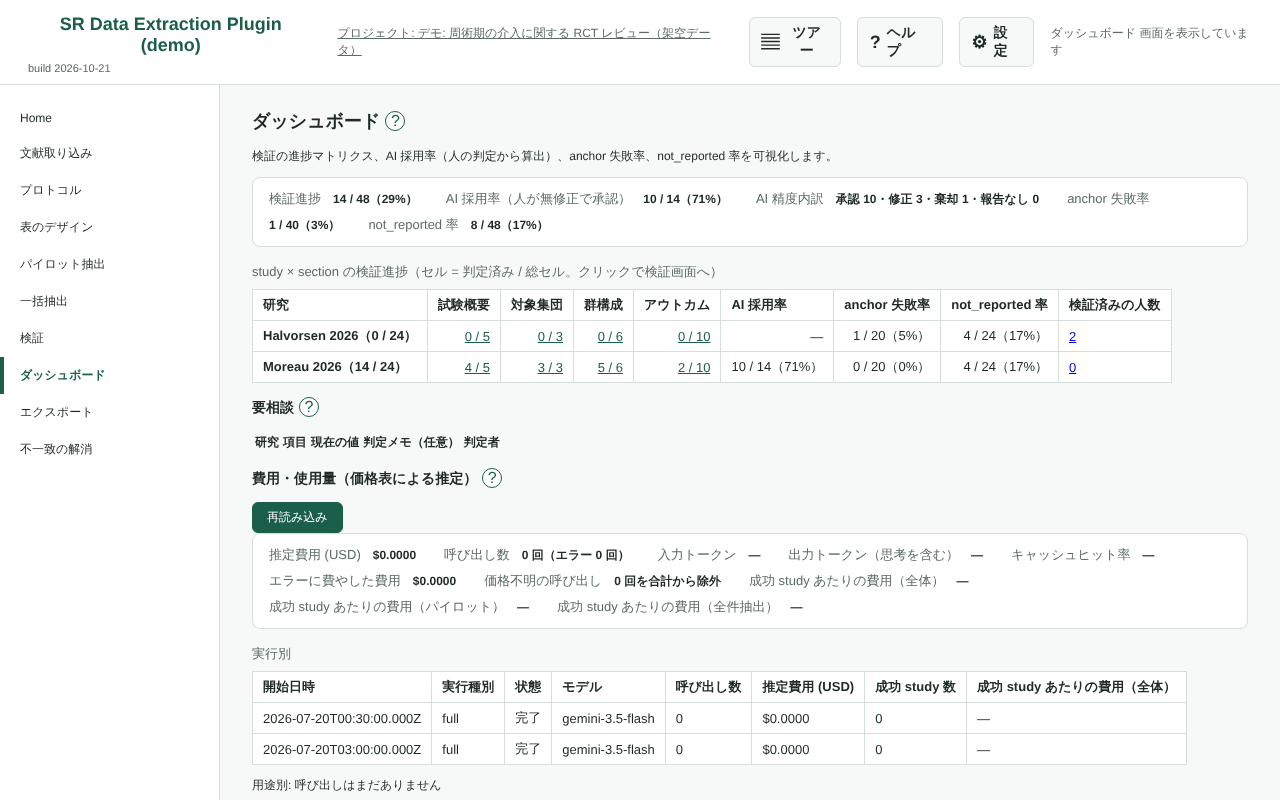
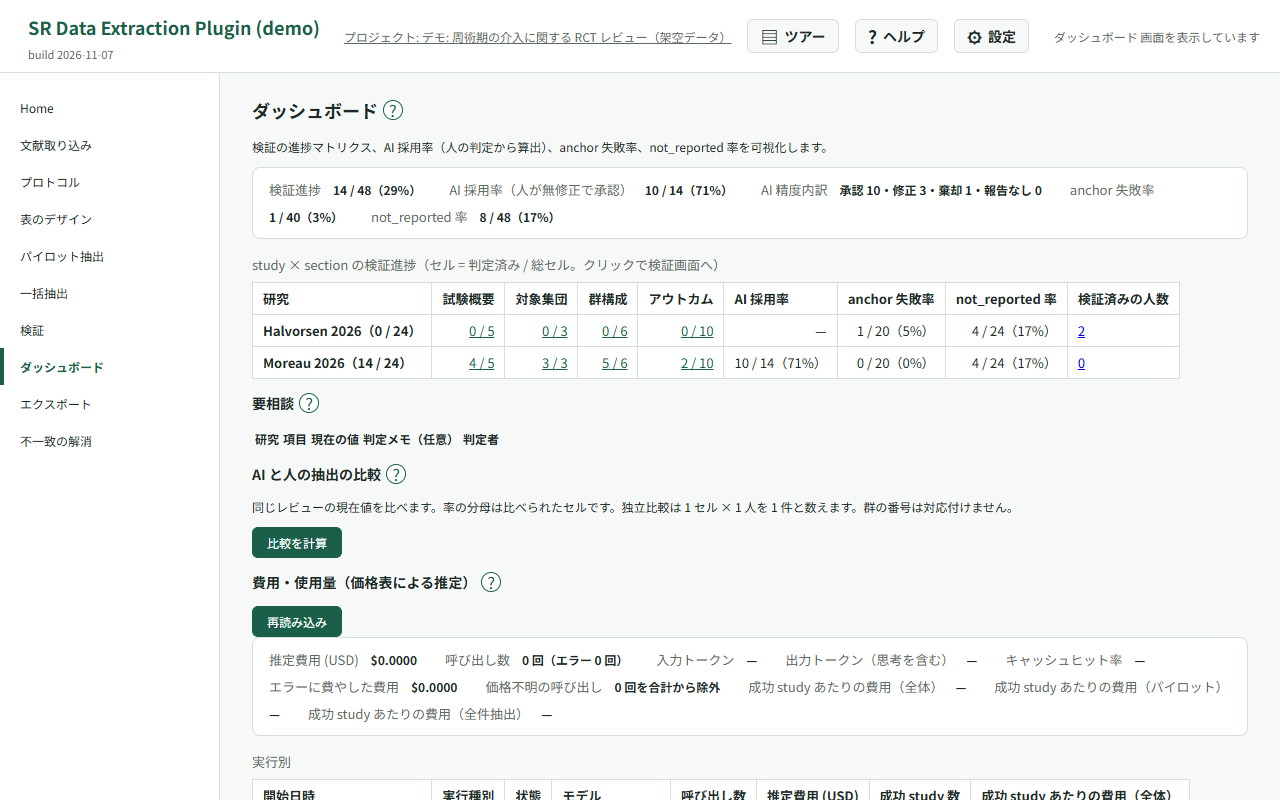
公開ページを再デプロイ（2026-11-08・master 3aac386）

diff --git a/help.html b/help.html
@@ -3,7 +3,7 @@
      正典はこのファイル（master の hosted/）。デプロイ手順は hosted/README.md を参照。
      内容はワークフローレベルに留める（画面細部はアプリ内のリード文が担う。issue #214 §3）。
      文言は ja / en を両方持ち、表示は lang.js + CSS が片方だけに絞る（併記しない）。
-     version: 2026-11-07 -->
+     version: 2026-11-08 -->
 <html lang="ja">
   <head>
     <meta charset="utf-8" />
@@ -53,8 +53,8 @@
           <span class="en" lang="en">User guide</span>
         </h1>
         <p class="last-updated">
-          <span class="ja" lang="ja">最終更新: 2026-11-07 / 対象バージョン: v0.27.0</span>
-          <span class="en" lang="en">Last updated: 2026-11-07 / Covers v0.27.0</span>
+          <span class="ja" lang="ja">最終更新: 2026-11-08 / 対象バージョン: v0.27.0</span>
+          <span class="en" lang="en">Last updated: 2026-11-08 / Covers v0.27.0</span>
         </p>
 
         <nav class="toc" aria-label="目次" data-en-aria-label="Table of contents">
@@ -596,12 +596,12 @@
           </div>
           <p>
             <span class="ja" lang="ja"
-              >最初に AI の機能（スキーマの AI ドラフト、パイロット抽出、一括抽出、引用の AI 再特定、論文への質問、ヘルプへの相談）を使うとき、何をどこへ送るかを示す確認が 1 回だけ出ます。送るのは論文の本文（文字を読み取れない PDF はページの画像）、研究プロトコルの本文、抽出項目の定義、質問の文です。ヘルプへの相談では、質問と選ばれた公開ヘルプの本文だけを送り、相談の内容は保存しません。AI の処理のために送る先は、設定した LLM API だけです。送ったプロンプトと応答は、監査の記録として利用者自身の Google Drive（プロジェクトの logs/llm）にも保存されます（画像データは除きます）。論文への質問は本文・質問・回答を保存せず、利用量などのメタデータだけを記録します。開発者のサーバーには何も送りません。Gemini API の無料枠では、送った内容と応答が、Google の製品・サービスと機械学習技術の提供・改善・開発に使われ、人が読むことがあります。未公開のデータや機密の資料は有料枠で使ってください。「同意して続行」で実行し、「キャンセル」では何も送りません。確認を開いている間に同じ操作を繰り返しても、処理は増えません。「キャンセル」または Esc で閉じると、開く前の操作部へフォーカスが戻ります。同意の内容を変えたときは、もう一度表示します。同意はこのブラウザのプロファイルに記録され、設定画面の「AI へ送る内容」から見直し・取り消しができます。</span
+              >最初に AI の機能（スキーマの AI ドラフト、パイロット抽出、一括抽出、引用の AI 再特定、論文への質問、ヘルプへの相談）を使うとき、何をどこへ送るかを示す確認が 1 回だけ出ます。送るのは論文の本文（文字を読み取れない PDF はページの画像）、研究プロトコルの本文、抽出項目の定義、選択肢の提案に使う項目のパイロットの抽出値（最大 30 件）、質問の文です。ヘルプへの相談では、質問と選ばれた公開ヘルプの本文だけを送り、相談の内容は保存しません。AI の処理のために送る先は、設定した LLM API だけです。送ったプロンプトと応答は、監査の記録として利用者自身の Google Drive（プロジェクトの logs/llm）にも保存されます（画像データは除きます）。論文への質問は本文・質問・回答を保存せず、利用量などのメタデータだけを記録します。開発者のサーバーには何も送りません。Gemini API の無料枠では、送った内容と応答が、Google の製品・サービスと機械学習技術の提供・改善・開発に使われ、人が読むことがあります。未公開のデータや機密の資料は有料枠で使ってください。「同意して続行」で実行し、「キャンセル」では何も送りません。確認を開いている間に同じ操作を繰り返しても、処理は増えません。「キャンセル」または Esc で閉じると、開く前の操作部へフォーカスが戻ります。同意の内容を変えたときは、もう一度表示します。同意はこのブラウザのプロファイルに記録され、設定画面の「AI へ送る内容」から見直し・取り消しができます。</span
             >
             <span class="en" lang="en"
               >The first time you use an AI feature (AI schema draft, pilot extraction, batch extraction, AI quote
               relocation, asking a paper or help consultation), a notice shows once what is sent where. The extension sends the text of
-              your papers (page images for PDFs without a text layer), your protocol text, your field definitions and
+              your papers (page images for PDFs without a text layer), your protocol text, your field definitions, pilot extraction values for the field when suggesting choices (up to 30), and
               your questions. Help consultation sends only your question and selected public help text, and does not save consultation content. For AI processing, content is sent only to the LLM API you configured. The prompts sent and the responses are also saved as audit records in your own Google Drive (the project’s logs/llm folder), excluding image data. For paper questions, the paper text, questions and answers are not saved; only metadata such as usage is recorded. Nothing is sent to the developer’s servers. On the Gemini API free tier, what you send and the responses are used to provide, improve, and develop Google products, services, and machine learning technologies, and may be read by people, so use a paid tier for unpublished data or
               confidential material. If the notice changes, it is shown again. “Agree and continue” runs the feature; “Cancel” sends nothing. Your consent is
               recorded in this browser profile, and you can review or withdraw it under “What is sent to the AI” in
@@ -1106,6 +1106,10 @@
               <span class="en" lang="en"
                 >Risk-of-bias templates (RoB 2, ROBINS-I, QUADAS-3, QUIPS) can be pre-loaded into the schema.</span
               >
+              <p>
+                <span class="ja" lang="ja">RoB の判定の提案が、まだ確かめていない AI の回答から計算されているときは、提案の下にその旨を表示し、回答を確かめると変わることがあると案内します。</span>
+                <span class="en" lang="en">When a RoB judgement suggestion is computed from AI answers you have not verified yet, a note below the suggestion explains this and that it may change once you verify the answers.</span>
+              </p>
             </li>
             <li>
               <span class="ja" lang="ja"
@@ -1291,6 +1295,39 @@
             </figcaption>
           </figure>
 
+          <h3 id="pilot-criteria">
+            <span class="ja" lang="ja">合格基準</span><span class="en" lang="en">Acceptance criteria</span>
+          </h3>
+          <div class="help-when">
+            <p class="help-when-label"><span class="ja" lang="ja">こんなとき</span><span class="en" lang="en">When to read this</span></p>
+            <ul><li><span class="ja" lang="ja">AI 抽出の合格基準を前もって決め、結果を報告したい</span>
+              <span class="en" lang="en">Set acceptance criteria in advance and report the results</span></li>
+              <li><span class="ja" lang="ja">パイロットの結果が基準を満たすか確かめたい</span>
+                <span class="en" lang="en">Check whether the pilot meets the criteria</span></li></ul>
+          </div>
+          <p><span class="ja" lang="ja">パイロットの前に owner が合格基準を決め、「確定する」から確認して保存します。
+            正確度の下限、作り話・欠け・誤った値の率の上限（0〜100%、4 つのうち 1 つ以上）、任意の最小セル数、
+            比べる相手（独立の人、裁定後の値、独立抽出者の最終値、AI を見ながら判定した人）、対象レベルを指定します。
+            初期値は空欄です。CESAR の感度 92%、重大な誤り 3% は参考で、自動入力されません。
+            AI を見ながら判定した人との比較は独立比較ではありません。
+            実行中・中断・失敗を含め、一度でもパイロットを始めた後の確定は、開始後に確定した版として記録します。</span>
+            <span class="en" lang="en">Before the pilot, the owner sets and confirms acceptance criteria: minimum accuracy,
+            maximum fabrication, omission and wrong-value rates (0–100%; at least one rate), optional minimum compared cells,
+            comparator (independent reviewers, consensus, independent final values, or AI-assisted final values), and entity levels.
+            Inputs start blank. CESAR sensitivity 92% and major errors 3% are references and are not filled in automatically.
+            AI-assisted review is not an independent comparison.
+            Confirmation after any pilot has started, including running, interrupted or failed runs, is recorded as occurring after the pilot began.</span></p>
+          <p><span class="ja" lang="ja">「結果を計算」で完了済みパイロットの研究を比較します。基準をすべて満たせば「満たす」、
+            いずれかに届かなければ「満たさない」、パイロットなし・比較セル 0・最小数未満なら理由付きで「判定できない」と表示します。
+            表には基準、設定値、パイロットの値、判定が並びます。設定なしの率と計算前の値・判定は「—」で表示します。
+            比べられたセル数の行では、最小数があればその判定も示します。
+            版は追記保存され、過去版は消えません。現行の基準と結果は Methods 文案に、各版は R セットの acceptance_criteria.csv に出ます。</span>
+            <span class="en" lang="en">Use “Calculate results” to compare completed pilot studies. Results are “Met” if all criteria
+            are satisfied, “Not met” if any criterion fails, or “Not evaluable” with a reason if there is no pilot, no compared cells,
+            or too few cells. The table shows each criterion, setting, pilot value and judgment.
+            Unset rates and values and judgments before calculation show “—”. The compared-cell row also evaluates the minimum if set.
+            Versions are appended and preserved. The current criteria and result appear in the Methods text;
+            every version appears in acceptance_criteria.csv in the R set.</span></p>
           <h3 id="pilot-notes">
             <span class="ja" lang="ja">判定メモと再パイロット</span>
             <span class="en" lang="en">Judgment notes and repeat pilots</span>
@@ -1893,6 +1930,34 @@
             </figcaption>
           </figure>
 
+          <h3 id="dashboard-ai-compare">
+            <span class="ja" lang="ja">AI と人の抽出の比較</span>
+            <span class="en" lang="en">Compare AI and human extraction</span>
+          </h3>
+          <div class="help-when">
+            <p class="help-when-label">
+              <span class="ja" lang="ja">こんなとき</span>
+              <span class="en" lang="en">When to read this</span>
+            </p>
+            <ul>
+              <li>
+                <span class="ja" lang="ja">AI の作り話・誤った値・欠けの割合を確かめたい</span>
+                <span class="en" lang="en">I want to measure AI fabrications, wrong values and omissions</span>
+              </li>
+              <li>
+                <span class="ja" lang="ja">独立の人や最終値との比較を CSV で保存したい</span>
+                <span class="en" lang="en">I want to save comparisons with independent reviewers or final values as CSV</span>
+              </li>
+            </ul>
+          </div>
+          <p>
+            <span class="ja" lang="ja">オーナーと裁定者は「比較を計算」で、AI と人の現在値を比べられます。「一致」は同じ値（複数選択は並びをそろえて比較）、「欠け」は人が値を出したのに AI が報告なし・値なし、「作り話」は人が報告なしとした値を AI が出した場合、または異なる値で全引用が本文で見つからない場合、「誤った値」はそれ以外の異なる値です。値が一致すれば、引用の失敗は別の件数にだけ数えます。</span>
+            <span class="en" lang="en">Owners and adjudicators can calculate a comparison of current AI and human values. A match means equal values (with multiple selections put in canonical order). An omission means the human has a value but AI reports none or has no value. A fabrication means AI supplies a value where the human reports none, or supplies a different value with all quotes failing to match the text. Other differing values are wrong values. Equal values remain matches even if their quotes fail; quote failures are also counted separately.</span>
+          </p>
+          <p>
+            <span class="ja" lang="ja">人が未判定、またはその項目が AI の抽出対象外なら「比べられない」として率の分母から外します。両方空も一致にしません。完了した AI 抽出のない研究は別計上します。A は独立の人ごとに比較、B は最終値を裁定値・独立の人・AI を見た人に分けて表示します。AI を見ながら判定した人との比較は独立の比較ではありません。群番号の対応付けは行いません。集計とセル一覧を CSV で保存できます。</span>
+            <span class="en" lang="en">Unjudged human cells and fields outside completed AI extraction runs are incomparable and excluded from rates. Two empty values are not a match. Studies without completed AI extraction are counted separately. A compares each independent reviewer; B separates final consensus values, independent human values, and AI-assisted human values. Comparisons with reviewers who saw AI output are not independent. Arm numbering is not mapped. Summary and cell CSV files are available.</span>
+          </p>
           <h3 id="dashboard-consult">
             <span class="ja" lang="ja">要相談の一覧</span>
             <span class="en" lang="en">Items needing discussion</span>
@@ -2024,7 +2089,7 @@
               <span class="ja" lang="ja"
                 >2 名の検証が揃った試験は「不一致の解消」画面で処理します。群構成を突き合わせ、一致セルは一括採用、不一致セルは個別に裁定して
                 consensus（確定版）を作ります。2 名とも空のセルは比べられないため、一致には数えず「両者とも未入力」として別に件数を出し、一括採用の対象からも外します（「不一致のみ表示」でも表示されるので、個別に裁定してください）。レビュアー間一致度（κ）も確認できます。一致度は 2
-                名とも検証を終えた試験だけで計算し、比べられるセルが 1 件もないときは「比べられるセルがありません」と表示します。</span
+                名とも検証を終えた試験だけで計算し、比べられるセルが 1 件もないときは「比べられるセルがありません」と表示します。裁定の記録にはどちらの値を採ったか・その値が AI の値の accept だったかが残り、2 人とも AI を見ながら検証した研究は一致度カードに「独立の一致ではない」と表示されます（κ には含めます）。</span
               >
               <span class="en" lang="en"
                 >Once both reviewers are done, the “Resolve conflicts” screen matches the arm structures, bulk-accepts agreeing
@@ -2032,7 +2097,7 @@
                 compared: they are not counted as matching, are shown with their own count as “Both empty”, are left out
                 of the bulk accept, and still appear under “Show mismatches only” so you can settle them one by one.
                 Inter-reviewer agreement (κ) is shown as well. It uses only studies both reviewers have finished, and
-                shows “No cells to compare” when no cell has values from both reviewers.</span
+                shows “No cells to compare” when no cell has values from both reviewers. Adjudication records retain whose value was adopted and whether it came from accepting the AI value; studies where both reviewers viewed AI values are marked as not independent agreement in the agreement card (still included in κ).</span
               >
             </li>
             <li>
@@ -2247,13 +2312,13 @@
               <span class="ja" lang="ja"
                 ><code>is_final</code> が TRUE になるのは、確定版（consensus、無ければ唯一の人の行）の一覧にある引用です。裁定した試験で最終の根拠を選んでいないセルには、TRUE の行はありません。人の行が確定版で、その人が引用を直していないセルでは、AI
                 抽出を見ながら検証した人なら AI の引用が TRUE になり、独立入力の人なら TRUE の行はありません。確定版を決められない試験（2 名が検証し、裁定がまだの試験など）は、すべて FALSE です。<code>audit.csv</code>
-                には、人が直した引用は載りません。</span
+                には、人が直した引用は載りません。判定時に見ていた AI の値と引用の ID は記録に残ります。</span
               >
               <span class="en" lang="en"
                 ><code>is_final</code> is TRUE for quotes in the final annotator’s list (consensus, or the only human
                 reviewer if there is no consensus). In an adjudicated study, a cell whose final evidence was not chosen has no TRUE row. When the final annotator is a single reviewer, for cells that reviewer did not edit, the AI quotes are TRUE if they
                 verified with AI; if they entered data independently, no row is TRUE. If the final annotator cannot be determined (for example, two reviewers and no adjudication yet), every row is FALSE. <code>audit.csv</code> does not
-                include quotes edited by people.</span
+                include quotes edited by people. The AI value and quote IDs seen at decision time are retained in the audit record.</span
               >
             </li>
           </ul>

diff --git a/privacy-policy.html b/privacy-policy.html
@@ -54,11 +54,11 @@
         </h1>
         <p class="last-updated">
           <span class="ja" lang="ja"
-            >最終更新: 2026-11-07<br />
+            >最終更新: 2026-11-08<br />
             対象: Chrome 拡張機能「SR Data Extraction」（sr-data-extraction-plugin）</span
           >
           <span class="en" lang="en"
-            >Last updated: 2026-11-07<br />
+            >Last updated: 2026-11-08<br />
             Applies to the Chrome extension “SR Data Extraction”
             (sr-data-extraction-plugin)</span
           >
@@ -411,13 +411,13 @@
             <span class="ja" lang="ja"
               >AI 抽出を実行すると、対象論文の本文テキストと抽出指示プロンプトが、利用者が設定した LLM API（Gemini
               API、OpenRouter、Anthropic、Azure OpenAI、または利用者指定の OpenAI 互換 API）へ送信されます。送信先によるデータの取り扱いは、その運営者の利用規約・プライバシーポリシーに従います。本拡張はプロバイダを仲介せず、利用者のブラウザから直接
-              API を呼び出します。</span
+              API を呼び出します。選択肢の提案では、その項目のパイロットの抽出値（最大 30 件）を、設定した LLM API へ送ります。</span
             >
             <span class="en" lang="en"
               >Running an extraction sends the paper’s text and the extraction prompt to the LLM API the user configured
               (Gemini API, OpenRouter, Anthropic, Azure OpenAI, or a user-specified OpenAI-compatible API). How that
               provider handles the data is governed by the provider’s own terms and privacy policy. The extension does
-              not proxy the request: the call is made directly from the user’s browser.</span
+              not proxy the request: the call is made directly from the user’s browser. When suggesting choices for a field, the extension sends that field's values from the pilot extraction (up to 30) to the configured LLM API.</span
             >
           </p>
           <p>
